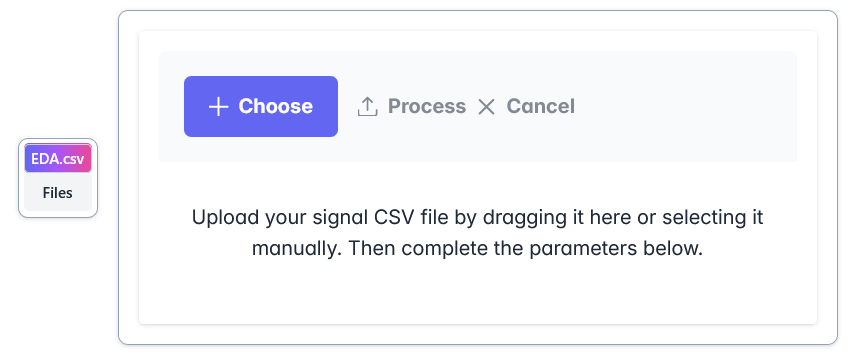
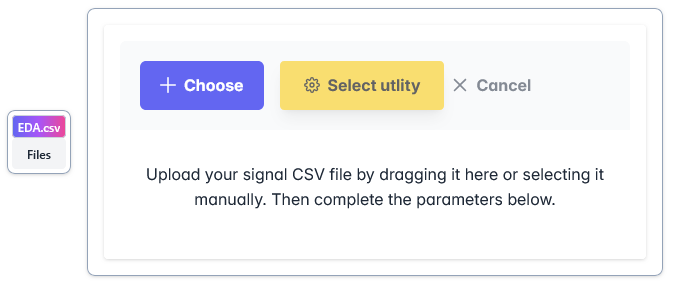
[Docs] Updated images

diff --git a/frontend/src/components/Home.jsx b/frontend/src/components/Home.jsx
@@ -4,6 +4,7 @@ import { PrimeReactProvider } from "primereact/api";
 import { FileUpload } from "primereact/fileupload";
 import { usePapaParse } from "react-papaparse";
 import RangeSlider from "react-range-slider-input";
+import { FiSettings } from "react-icons/fi";
 import "react-range-slider-input/dist/style.css";
 import {
   Chart as ChartJS,
@@ -266,7 +267,7 @@ const CSVUploader = memo(({ file, setFile, setHeaders, cropValues }) => {
   const [signalValues, setSignalValues] = useState("");
   const [opened, { open, close }] = useDisclosure(false);
 
-  const handleUtilityModal = (event) => {
+  const handleUtilityModal = () => {
     const signalType_select = document.getElementById("signalType");
     const timestampColumn_select = document.getElementById("timestampColumn");
     const samplingRate_select = document.getElementById("samplingRate");
@@ -293,7 +294,7 @@ const CSVUploader = memo(({ file, setFile, setHeaders, cropValues }) => {
     open();
   };
 
-  const clearForm = (event) => {
+  const clearForm = () => {
     // Stackoverflow: https://stackoverflow.com/questions/39546133/remove-all-options-from-select-tag#comment66404874_39546133
     const clearSelect = (selectId) => {
       document.getElementById(selectId).innerHTML = "";
@@ -418,7 +419,7 @@ const CSVUploader = memo(({ file, setFile, setHeaders, cropValues }) => {
               <p id="error-message" style={{ color: "red" }}></p>
               <FileUpload
                 ref={fileUploader}
-                uploadLabel="Process"
+                uploadLabel="Select utlity"
                 customUpload
                 uploadHandler={handleUtilityModal}
                 onSelect={fileSelected}
@@ -432,6 +433,11 @@ const CSVUploader = memo(({ file, setFile, setHeaders, cropValues }) => {
                     it manually. Then complete the parameters below.
                   </p>
                 }
+                uploadOptions={{
+                  icon: <FiSettings className="mr-2" />,
+                  className:
+                    "bg-yellow-400 hover:bg-yellow-500 text-black font-bold py-3 px-6 rounded shadow-lg cursor-pointer transition",
+                }}
               />
             </div>
           </PrimeReactProvider>
@@ -508,29 +514,6 @@ const InfoTable = ({ table, start = 0 }) => {
   );
 };
 
-const CropView = ({ fileRows, cropValues, setCropValues }) => {
-  return (
-    <>
-      <RangeSlider
-        className="my-3"
-        id="range-slider"
-        step={1}
-        min={0}
-        max={fileRows.length}
-        defaultValue={[0, fileRows.length]}
-        onInput={setCropValues}
-      />
-      <InfoTable
-        table={[
-          fileRows[0],
-          ...fileRows.slice(cropValues[0] + 1, cropValues[1] + 1),
-        ]}
-        start={cropValues[0]}
-      />
-    </>
-  );
-};
-
 const Home = () => {
   window.history.replaceState({}, "");
 
@@ -539,7 +522,7 @@ const Home = () => {
   const [samplingRate, setSamplingRate] = useState(null);
   const [file, setFile] = useState(null);
   const [fileRows, setFileRows] = useState(null);
-  const [headers, setHeaders] = useState([]);
+  const [headers, setHeaders] = useState([]); // These are set in CSVUploader
   const [chartDataOriginal, setChartDataOriginal] = useState(null);
   const { readString } = usePapaParse();
   const { isDarkMode: isDark } = useContext(ThemeContext);
@@ -547,6 +530,11 @@ const Home = () => {
 
   //const roundIfReallyClose = (num) => { return Math.abs(num - Math.round(num)) <= 0.01 ? Math.round(num) : num }
 
+  /*
+   * useEffect to establish all fields.
+   * It is worth mentioning that when this executes, the headers have already been set because CSVUploader has done so.
+   *
+   */
   useEffect(() => {
     if (!file) return;
 
@@ -558,7 +546,9 @@ const Home = () => {
         complete: (results) => {
           setFileRows(results.data);
           setCropValues([0, results.data.length - 1]);
-          setTimestampColumn(headers.length - 1);
+          setTimestampColumn(headers.length - 1); // = "No timestamps"
+          setSignalValues(-1);
+          setSamplingRate(null);
         },
       });
     };
@@ -568,17 +558,11 @@ const Home = () => {
   useEffect(() => {
     if (!file) return;
 
-    updateData();
-  }, [timestampColumn, signalValues, samplingRate]);
-
-  const updateData = () => {
     const reader = new FileReader();
     reader.onload = (e) => {
       const content = e.target.result;
       readString(content, {
         complete: (results) => {
-          let samplingRate_select = document.getElementById("samplingRate");
-
           const rows = isNaN(results.data[0][0])
             ? results.data.slice(1)
             : results.data;
@@ -611,14 +595,6 @@ const Home = () => {
 
             calculated_samplingrate = 1 / average(diff(x));
             setSamplingRate(calculated_samplingrate);
-            samplingRate_select.value = calculated_samplingrate.toFixed(1);
-          }
-
-          const badge = document.getElementById("samplingRateBadge");
-          if (timestampColumn == headers.length - 1 || timestampColumn == -1) {
-            badge.style.display = "none";
-          } else {
-            badge.style.display = "block";
           }
 
           setChartDataOriginal(data_original);
@@ -626,7 +602,7 @@ const Home = () => {
       });
     };
     reader.readAsText(file);
-  };
+  }, [timestampColumn, signalValues, samplingRate]);
 
   const handleTimestampChange = (event) => {
     setTimestampColumn(parseInt(event.target.value));
@@ -692,6 +668,7 @@ const Home = () => {
                 </label>
                 <select
                   id="timestampColumn"
+                  value={timestampColumn}
                   onChange={handleTimestampChange}
                   className="mt-1 block w-full border border-gray-300 dark:border-gray-600 rounded px-3 py-2 bg-white dark:bg-gray-800 text-black dark:text-white"
                 />
@@ -710,6 +687,7 @@ const Home = () => {
                   min={1}
                   placeholder="Enter Hz"
                   id="samplingRate"
+                  value={samplingRate || ""}
                   onChange={handleSamplingRateChange}
                   onBlur={(event) => {
                     const value = parseInt(event.target.value, 10);
@@ -734,6 +712,7 @@ const Home = () => {
                 </label>
                 <select
                   id="signalValues"
+                  value={signalValues}
                   onChange={handleSignalValuesChange}
                   className="mt-1 block w-full border border-gray-300 dark:border-gray-600 rounded px-3 py-2 bg-white dark:bg-gray-800 text-black dark:text-white"
                 />
@@ -748,10 +727,23 @@ const Home = () => {
                     >
                       Crop signal
                     </label>
-                    <CropView
-                      fileRows={fileRows}
-                      cropValues={cropValues}
-                      setCropValues={setCropValues}
+                    <RangeSlider
+                      className="my-3"
+                      id="range-slider"
+                      step={1}
+                      min={0}
+                      max={fileRows.length}
+                      defaultValue={[0, fileRows.length]}
+                      onInput={setCropValues}
+                    />
+                    <InfoTable
+                      table={[
+                        fileRows[0],
+                        ...fileRows
+                          .slice(1)
+                          .slice(cropValues[0], cropValues[1] + 1),
+                      ]}
+                      start={cropValues[0]}
                     />
                   </>
                 )}
@@ -762,14 +754,14 @@ const Home = () => {
 
         <div className="w-full max-w-xl">
           <div className="bg-white dark:bg-gray-900 border-0 dark:border dark:border-gray-600 shadow-md rounded-lg p-4 text-center">
-            <div
-              id="samplingRateBadge"
-              className="bg-blue-500 text-white rounded px-4 py-1 mx-auto w-1/2 mb-4 hidden"
-            >
-              {chartDataOriginal && file && (
-                <>Detected sampling rate of {samplingRate} Hz</>
-              )}
-            </div>
+            {samplingRate && timestampColumn !== headers.length - 1 && (
+              <div
+                id="samplingRateBadge"
+                className="bg-blue-500 text-white rounded px-4 py-1 mx-auto w-1/2 mb-4"
+              >
+                Detected sampling rate of {samplingRate.toFixed(1)} Hz
+              </div>
+            )}
             {chartDataOriginal && file ? (
               <CustomChart table={chartDataOriginal} />
             ) : (

diff --git a/docs/source/index.rst b/docs/source/index.rst
@@ -34,4 +34,3 @@ The application has been designed with up-to-date web-based frameworks that make
    resampling
    filtering
    processing
-   developer_guide
